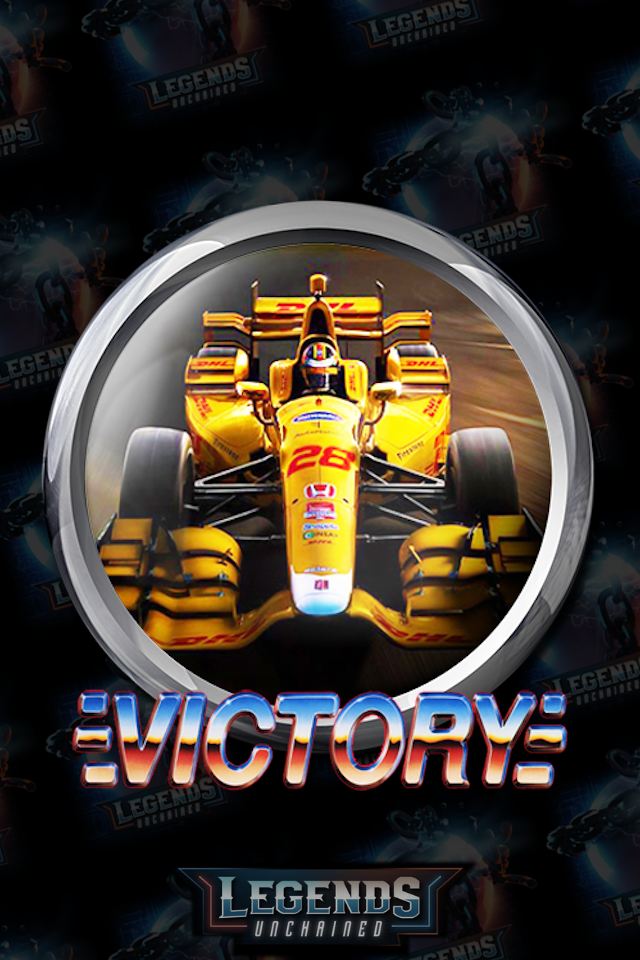
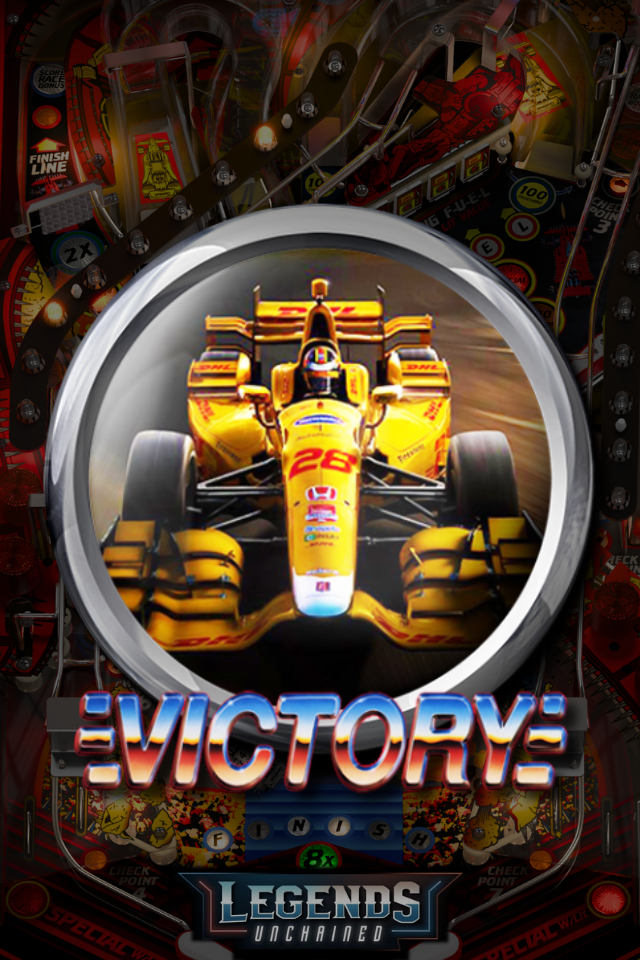
Changed scoring to the backglass.

diff --git a/external/vpx-victory/README.md b/external/vpx-victory/README.md
@@ -8,7 +8,7 @@
 | File Type | Link | Version | Author | 
 |-----------|--------|----------|--------------|
 | **VPX** | [VP Forums](https://www.vpforums.org/index.php?app=downloads&showfile=15232) | 2.0 | [bigus1](https://www.vpforums.org/index.php?showuser=107629) |
-| **B2S** | N/A | N/A | N/A |
+| **B2S** | [VPUniverse](https://vpuniverse.com/files/file/4547-victory-premier-1987/) | 1.0 | [Wildman](https://vpuniverse.com/profile/5-wildman/) |
 | **DMD** | N/A | N/A | N/A |
 | **ROM** | [Pinball Nirvana](https://pinballnirvana.com/forums/resources/victory.2562/) | N/A | N/A |
 
@@ -29,4 +29,5 @@
 
 - Install this table through the Table Manager, using the `Add Table` > `Manual` page
 - If you need help, more infomation found on the wiki: [TM - Add Table - Manual](https://github.com/LegendsUnchained/vpx-standalone-alp4k/wiki/%5B04%5D-%F0%9F%A7%A1-TM-%E2%80%90-Other-Features#add-table---manual)
+- For B2S download `Victory_(Premier_1987)2scr.rar`
 
